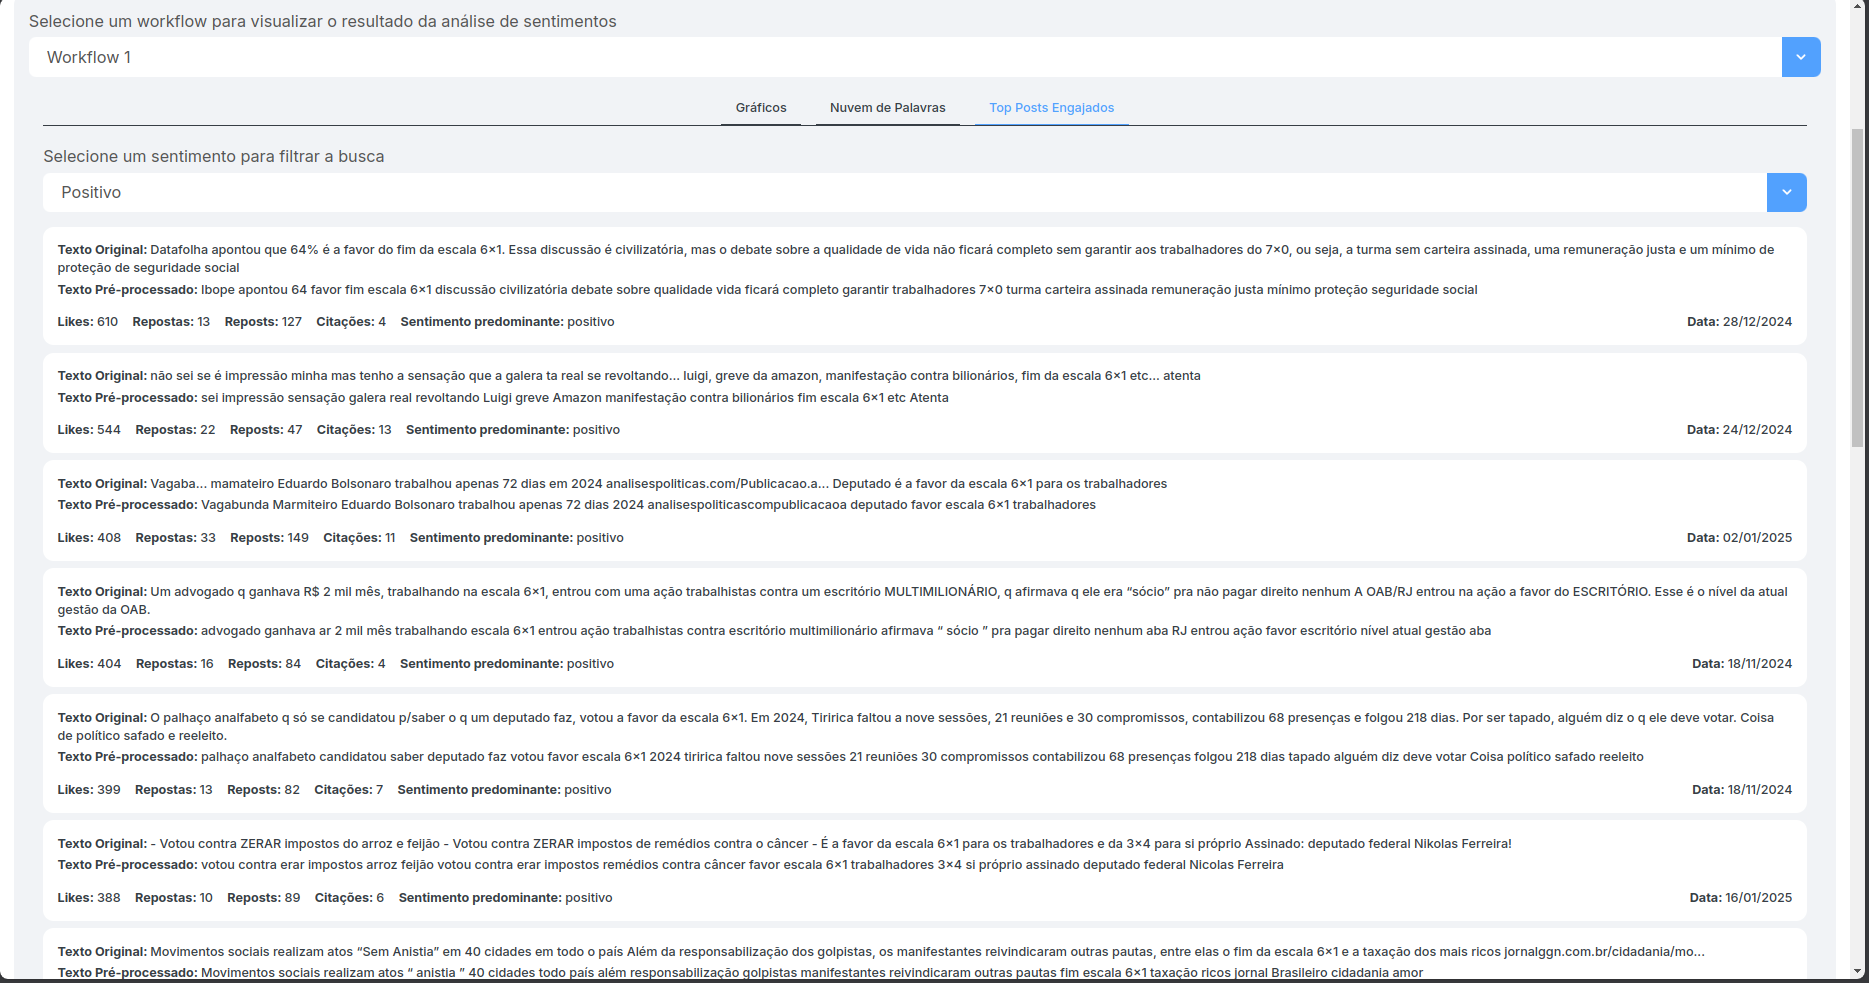
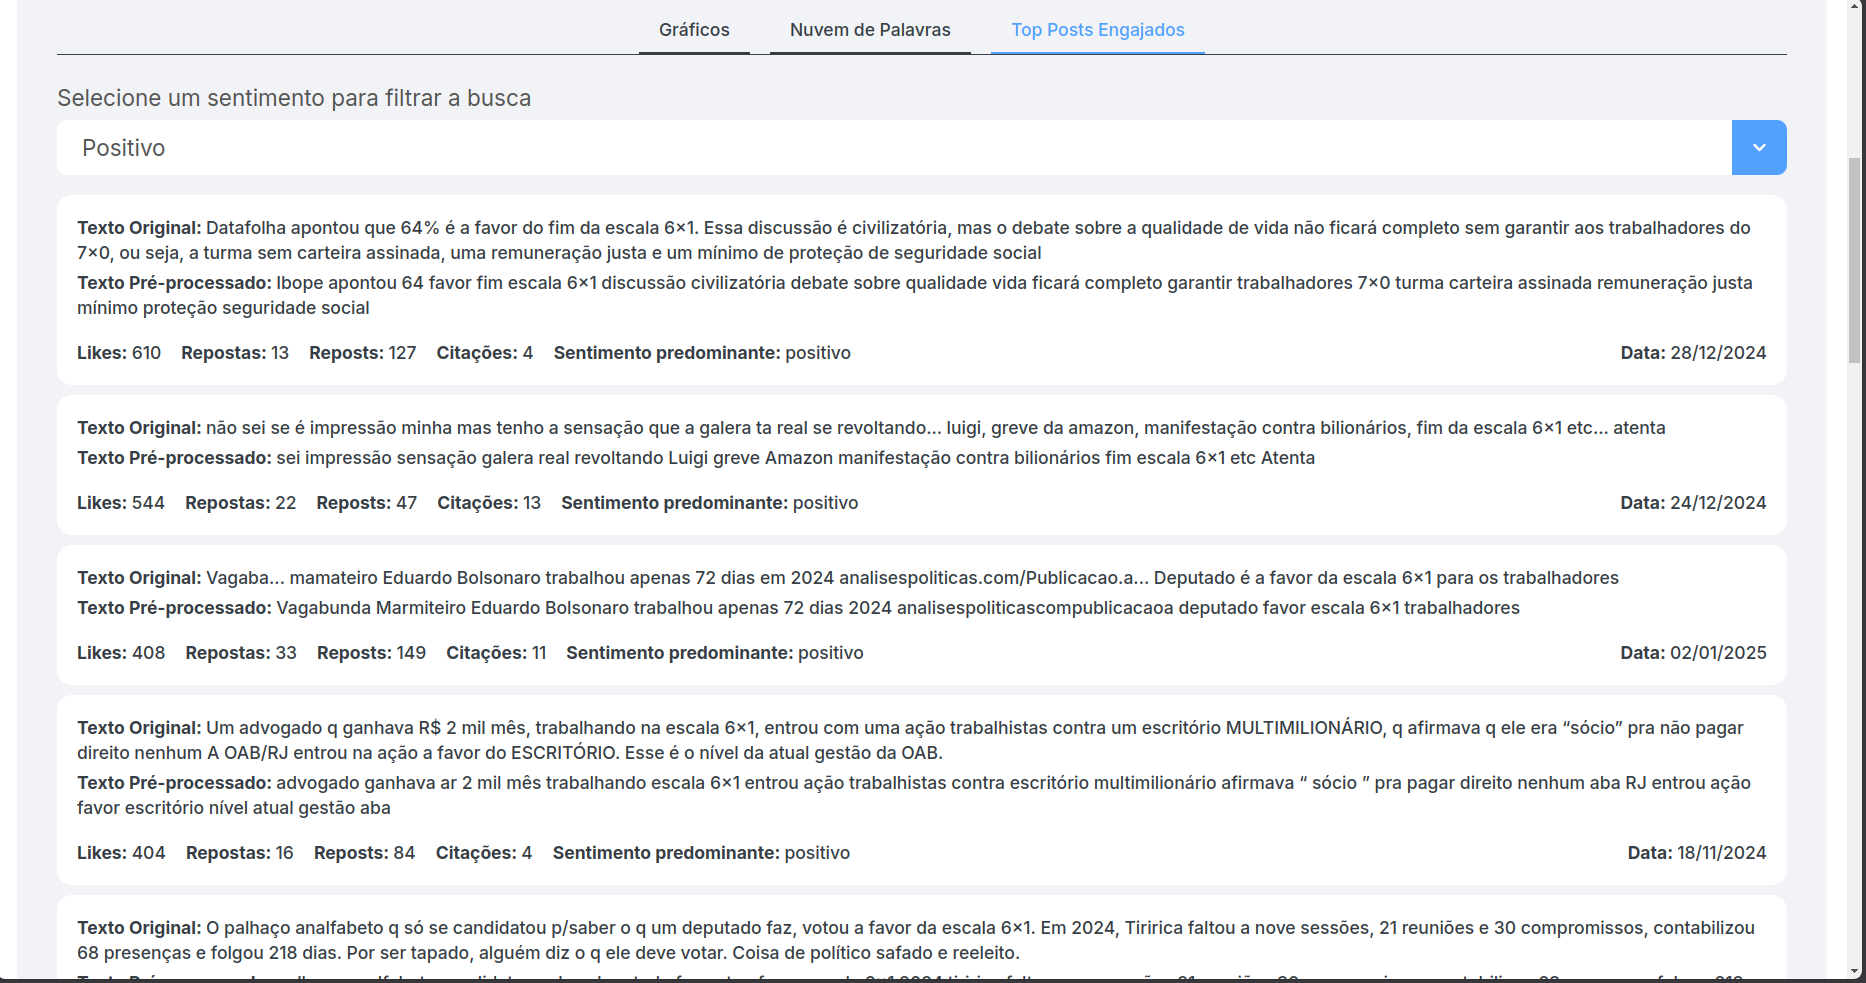
Revisão geral do estudo de caso

diff --git a/article/estudo-de-caso/resultados.md b/article/estudo-de-caso/resultados.md
@@ -10,9 +10,9 @@ O gráfico apresentado na \autoref{grafico_numero_comentarios_por_sentimento} ex
 
 No contexto político, o debate sobre a escala 6x1 ganhou destaque no último ano, impulsionado pela apresentação de uma Proposta de Emenda à Constituição (PEC) que propõe seu fim. A análise dos comentários coletados revela que a maioria das postagens apresenta um tom neutro, sugerindo que grande parte das discussões tem caráter informativo ou analítico. No entanto, entre as postagens que expressam um viés emocional, observa-se uma predominância de sentimentos positivos em relação ao tema. Esse resultado indica que há uma inclinação favorável da opinião pública quanto à possibilidade de alteração ou extinção da escala 6x1, refletindo um possível apoio da população a mudanças na organização da jornada de trabalho.
 
-O Sentilytics também gerou um insight baseado em AI para analisar o resultado do gráfico, interpretando a predominância do sentimento de neutralidade da seguinte forma: "Em suma, a análise de sentimentos revela uma necessidade de explorar mais a fundo as razões subjacentes ao otimismo ou pessimismo contidos nos 512 comentários positivos e nos 105 negativos, bem como entender como estimular uma participação mais ativa do público que se mostrou neutro.".
+O Sentilytics também gerou um *insight* baseado em AI para analisar o resultado do gráfico, interpretando a predominância do sentimento de neutralidade da seguinte forma: "Em suma, a análise de sentimentos revela uma necessidade de explorar mais a fundo as razões subjacentes ao otimismo ou pessimismo contidos nos 512 comentários positivos e nos 105 negativos, bem como entender como estimular uma participação mais ativa do público que se mostrou neutro.".
 
-Esse resultado sugere que, apesar da predominância de comentários neutros, ainda existe a necessidade de entender melhor os sentimentos positivos e negativos expressos pela população. O alto número de postagens neutras pode ser interpretado como uma cautela do público em relação ao tema, especialmente considerando que mudanças trabalhistas costumam gerar incertezas.
+Esse resultado sugere que, apesar da predominância de comentários neutros, ainda existe a necessidade de entender melhor os sentimentos positivos e negativos expressos pela população. O alto número de postagens neutras pode ser interpretado como uma cautela do público em relação ao tema, especialmente considerando que mudanças trabalhistas costumam gerar incertezas. Esses *insights* foram gerados utilizando a API do ChatGPT, na qual os dados do gráfico em questão são enviados para o modelo, que então realiza uma análise.
 
 Embora os resultados apresentados forneçam uma visão geral sobre a distribuição dos sentimentos, é importante considerar as limitações inerentes ao modelo de análise utilizado. A predominância de comentários classificados como neutros pode indicar uma limitação da ferramenta, decorrente do uso de um modelo baseado em léxicos.
 
@@ -22,7 +22,7 @@ Fonte: Autor (2025).
 
 Na \autoref{grafico_media_engajamento}, é apresentado um gráfico de barras que ilustra a média de engajamento por sentimento, considerando as interações dos usuários, como likes, repostagens, respostas e citações. Cada barra no gráfico representa a média calculada para um tipo específico de interação, agrupada de acordo com os sentimentos Positivo, Negativo e Neutro.
 
-A análise desse gráfico permite identificar qual categoria de sentimento gera maior engajamento geral, bem como tendências específicas por tipo de interação. Por exemplo, é possível observar se posts com sentimentos negativos recebem mais repostagens, indicando maior disseminação de conteúdos críticos, ou se postagens neutras geram mais respostas, sugerindo uma maior propensão ao debate e à troca de informações.
+A análise desse gráfico permite identificar qual categoria de sentimento gera maior engajamento geral, bem como tendências específicas por tipo de interação. Por exemplo, é possível observar se posts com sentimentos negativos recebem mais repostagens, indicando maior disseminação de conteúdos críticos.
 
 A análise do gráfico da \autoref{grafico_media_engajamento} revela que os sentimentos negativos geraram o maior engajamento geral, destacando-se especialmente pela média de likes e reposts. Esse padrão sugere que conteúdos críticos ou de tom negativo tendem a atrair mais atenção e interação do público, possivelmente devido à inclinação dos usuários em amplificar mensagens com caráter negativo ou polarizador.
 
@@ -30,7 +30,7 @@ A análise do gráfico da \autoref{grafico_media_engajamento} revela que os sent
 
 Fonte: Autor (2025).
 
-O gráfico apresentado na \autoref{grafico_total_engajamento} exibe o total de interações por sentimento, podemos interpretar esse gráfico observando quais sentimentos geram o maior volume absoluto de engajamento, bem como identificar padrões na distribuição das interações por tipo. ao contrário do gráfico da \autoref{grafico_media_engajamento} que mostra a média, este gráfico analisa o impacto acumulado das interações em cada categoria de sentimento.
+O gráfico apresentado na \autoref{grafico_total_engajamento} exibe o total de interações por sentimento, podemos interpretar esse gráfico observando quais sentimentos geram o maior volume absoluto de engajamento, bem como identificar padrões na distribuição das interações por tipo. Ao contrário do gráfico da \autoref{grafico_media_engajamento} que mostra a média, este gráfico analisa o impacto acumulado das interações em cada categoria de sentimento.
 
 Os resultados apresentados no gráfico mostram que postagens com sentimento neutro tiveram um engajamento significativamente maior em todas as métricas analisadas. Esse padrão indica que conteúdos classificados como neutros possuem um impacto acumulado mais alto, possivelmente devido à maior quantidade de postagens nesta categoria. Por outro lado, ao comparar os sentimentos negativos e positivos podemos notar que o sentimento negativo gera um volume maior de repostagens.
 
@@ -52,13 +52,13 @@ Na \autoref{nuvem_palavras} podemos visualizar a nuvem de palavras gerada na apl
 
 A análise da nuvem de palavras reforça que a discussão sobre o fim da escala 6x1 é central e polarizadora, com "escala" (5.365 ocorrências) e "6x1" (5.020 ocorrências) sendo os termos mais frequentes, seguidos por "fim" (2.229 ocorrências). Isso demonstra o foco principal no impacto e nas mudanças associadas à proposta.
 
-Os termos "contra" (894 ocorrências) e "pra" (982 ocorrências) sugerem uma oposição ou apoio ativo à pauta, indicando que a comunidade está dividida entre grupos que defendem ou rejeitam o fim da escala. Além disso, palavras como "trabalho" (529 ocorrências), "trabalhadores" (268 ocorrências) e "jornada" (134 ocorrências) indicam que a discussão também foca nos impactos diretos sobre a rotina e os direitos dos trabalhadores.
+Os termos "contra" (894 ocorrências) sugere uma oposição ou apoio ativo à pauta, indicando que a comunidade está dividida entre grupos que defendem ou rejeitam o fim da escala. Além disso, palavras como "trabalho" (529 ocorrências), "trabalhadores" (268 ocorrências) e "jornada" (134 ocorrências) indicam que a discussão também foca nos impactos diretos sobre a rotina e os direitos dos trabalhadores.
 
 A presença de palavras como "governo" (257 ocorrências), "direita" (230 ocorrências) e "esquerda" (256 ocorrências) sugere que o debate não é apenas técnico ou econômico, mas também politizado, com diferentes ideologias influenciando as percepções públicas sobre o tema.
 
 Por fim, termos como "luta" (243 ocorrências) e "vida" (253 ocorrências) reforçam o caráter emocional do discurso, destacando que essa proposta é vista como algo que impacta diretamente a qualidade de vida e as condições de trabalho da população. Diante desse cenário, a análise gerada por IA (Inteligência Artificial) na aplicação oferece uma interpretação dos dados, ajudando a contextualizar esses padrões e fornecendo *insights* sobre como o público está reagindo ao debate.
 
-![Top posts Engajados](imagens/sentilytics/estudo-caso/top_posts_engajados.png){#top_posts_engajados escala=0.2}
+![Top posts Engajados](imagens/sentilytics/estudo-caso/top_posts_engajados.png){#top_posts_engajados escala=0.3}
 
 Fonte: Autor (2025).
 
@@ -72,12 +72,14 @@ A funcionalidade de top posts engajados, com a visualização do texto original 
 
 Embora o presente estudo tenha alcançado seus objetivos principais, é importante reconhecer algumas limitações que podem ter impactado os resultados e a abrangência da análise. Essas limitações estão relacionadas tanto à aplicação Sentilytics quanto ao escopo do estudo de caso, e incluem:
 
-1. Integração limitada à rede social Bluesky: Atualmente, o Sentilytics está integrado apenas à rede social Bluesky, uma plataforma que ainda não possui grande relevância no Brasil e é pouco utilizada em comparação com outras redes sociais, como X (Antigo Twitter) e Facebook. Essa limitação reduz a representatividade da análise, já que os dados coletados refletem um público menor e potencialmente menos diversificado.
+1. **Integração limitada à rede social Bluesky**: Atualmente, o Sentilytics está integrado apenas à rede social Bluesky, uma plataforma que ainda não possui grande relevância no Brasil e é pouco utilizada em comparação com outras redes sociais, como X (Antigo Twitter) e Facebook. Essa limitação reduz a representatividade da análise, já que os dados coletados refletem um público menor e potencialmente menos diversificado.
 
 1. Opções limitadas de pré-processamento e análise de sentimentos: O Sentilytics oferece atualmente um número reduzido de tarefas de pré-processamento e utiliza apenas o VADER como modelo de análise de sentimentos. Embora o formato atual da aplicação permita a adição de outras funções sem a necessidade de alterações significativas, essas limitações podem impactar a qualidade dos resultados, especialmente para textos em português, onde o VADER tem dificuldades em captar nuances emocionais, como ironia e sarcasmo.
 
 1. Tamanho da amostra de dados: O estudo considerou uma amostra de 4.880 postagens coletadas no Bluesky. Embora seja suficiente para uma análise inicial, um número maior de postagens poderia fornecer uma visão mais abrangente e robusta sobre os padrões de engajamento e os sentimentos expressos pela audiência.
 
 1. Viés na análise de sentimentos: O modelo de análise de sentimentos utilizado, o VADER, apresenta limitações conhecidas, como dificuldade para interpretar ironias, sarcasmos e textos altamente subjetivos, o que é comum em postagens de redes sociais. Isso pode ter levado a uma classificação imprecisa em alguns casos, especialmente nas postagens que dependem de contextos mais complexos para serem interpretadas corretamente.
+
+1. Dados reais não rotulado para comparação: Os dados são reais e obtidos diretamente da rede social, portanto, não foram rotulados por especialistas, a fim de analisar a acurácia e precisão dos resultados.
 
 Essas limitações não comprometem os objetivos gerais do estudo, mas indicam possibilidades de melhoria para pesquisas futuras. A ampliação da integração do Sentilytics para outras redes sociais, a implementação de modelos mais robustos de análise de sentimentos, como redes neurais treinadas especificamente para o português, e o aumento do volume de dados analisados podem contribuir para resultados ainda mais precisos e abrangentes.

diff --git a/article/estudo-de-caso/processamento.md b/article/estudo-de-caso/processamento.md
@@ -1,17 +1,23 @@
 ### Pré-processamento dos Dados
 
-Após a coleta, os textos das postagens passaram por uma sequência de tarefas de pré-processamento para garantir maior qualidade na análise. O pipeline de processamento incluiu as seguintes etapas:
+Após a coleta, os textos das postagens passaram por uma sequência de tarefas de pré-processamento para garantir maior qualidade na análise. Para isso um workflow foi criado com as tarefas que serão usadas para realizar o pré-processamento, que podemos visualizar na \autoref{pipeline_processamento}.
 
-1. Lowercase: Transformação de todo o texto para minúsculas, garantindo uniformidade;
-1. Remove URLs: Remove URLs do texto;
-1. Enelvo Normaliser: Normalização do texto para corrigir erros ortográficos e abreviações comuns;
-1. Word Tokenizer: Segmentação do texto em palavras individuais (tokens);
-1. Stopwords Remover: Remoção de palavras irrelevantes que não contribuem para a análise do sentimento;
-1. Join Tokens: Os tokens são unidos novamente formando uma frase novamente com os tokens separados por um espaço em branco.
+![Workflow de pré-processamento](imagens/sentilytics/estudo-caso/workflow.png){#pipeline_processamento escala=0.35}
+
+Fonte: Autor (2025).
+
+A \autoref{pipeline_processamento} mostra um conjunto de tarefas organizadas em ordem, cada postagem vai passar por essas tarefas em sequência, as tarefas são:
+
+1. Minúsculas: Transformação de todo o texto para minúsculas, garantindo uniformidade;
+1. Removedor URLs Regex: Remove URLs do texto;
+1. Normalizador Enelvo: Normalização do texto para corrigir erros ortográficos e abreviações comuns;
+1. Tokenização por Palavra | NLTK: Segmentação do texto em palavras individuais (tokens);
+1. Removedor Stopwords: Remoção de palavras irrelevantes que não contribuem para a análise do sentimento;
+1. Tokens para Texto: Os tokens são unidos novamente formando uma frase novamente com os tokens separados por um espaço em branco.
 
 ### Análise de Sentimentos
 
-Após o pré-processamento, as postagens foram submetidas ao modelo de análise de sentimentos do Sentilytics, que utiliza o VADER (Valence Aware Dictionary and sEntiment Reasoner), uma ferramenta da biblioteca NLTK (Natural Language Toolkit). O VADER é um modelo baseado em regras e léxicos, projetado especificamente para a análise de sentimentos em textos informais.
+Após o pré-processamento, as postagens foram submetidas ao modelo de análise de sentimentos do Sentilytics, que utiliza o VADER[^VADER] (Valence Aware Dictionary and sEntiment Reasoner), uma ferramenta da biblioteca NLTK[^NLTK] (Natural Language Toolkit). O VADER é um modelo baseado em regras e léxicos, projetado especificamente para a análise de sentimentos em textos informais.
 
 Cada postagem recebeu uma pontuação de polaridade, categorizada em:
 
@@ -20,7 +26,7 @@ Cada postagem recebeu uma pontuação de polaridade, categorizada em:
 - Negativo: O quanto a postagem é negativa;
 - Composta: A pontuação composta consiste em um valor que representa a polaridade geral do texto, onde esse valor varia entre entre -1 (muito negativo) e +1 (muito positivo).
 
-A pontuação composta é calculada a partir da soma das valências das palavras presentes no texto. Essas valências são determinadas por um léxico de sentimentos, que associa palavras a escores de polaridade positiva e negativa. Além disso, a análise considera uma série de heurísticas que ajustam o impacto dessas palavras com base no contexto em que aparecem, como a presença de negações ou intensificadores.
+A pontuação composta é calculada a partir da soma das valências das palavras presentes no texto. Essas valências são determinadas por um léxico de sentimentos, que associa palavras ao score de polaridade positiva e negativa. Além disso, a análise considera uma série de heurísticas que ajustam o impacto dessas palavras com base no contexto em que aparecem, como a presença de negações ou intensificadores.
 
 Para garantir que os valores fiquem dentro do intervalo de -1 a +1, a soma das valências é normalizada usando a seguinte fórmula:
 
@@ -29,10 +35,13 @@ Para garantir que os valores fiquem dentro do intervalo de -1 a +1, a soma das v
 \end{equation}
 
 - sum_s é a soma das valências das palavras no texto;
-- 𝛼 é um fator de suavização que evita que textos muito longos tenham scores excessivamente altos ou baixos (o valor padrão no VADER é 15).
+- $\alpha$ é um fator de suavização que evita que textos muito longos tenham scores excessivamente altos ou baixos (o valor padrão no VADER é 15).
 
 Com base nessa normalização, o sentilytics consegue interpretar o sentimento predominante na postagem da seguinte forma:
 
 - Se o score composto for maior ou igual a 0.05: O sentimento da postagem é considerado positivo;
 - Se for menor ou igual a -0.05: O sentimento é negativo;
 - Se estiver entre -0.05 e 0.05: O sentimento é neutro.
+
+[^NLTK]: O site do NLTK está disponível no link: <https://www.nltk.org/>
+[^VADER]: A documentação do VADER está disponível no link: <https://www.nltk.org/_modules/nltk/sentiment/vader.html>

diff --git a/article/estudo-de-caso/coleta-dados.md b/article/estudo-de-caso/coleta-dados.md
@@ -1,5 +1,11 @@
 ### Coleta de Dados
 
-A coleta de dados foi realizada por meio da integração da ferramenta Sentilytics com o Bluesky. Para a busca, foi utilizada a query "Escala 6x1", sem a aplicação de filtros de intervalo de datas. As postagens foram ordenadas de acordo com sua popularidade, priorizando as mais relevantes dentro da plataforma.
+A coleta de dados foi realizada por meio da integração da ferramenta Sentilytics com o Bluesky. Com a pesquisa já criada, será necessário configurar os parâmetros que serão utilizados para a busca, podemos visualizar essa tela na \autoref{configuracao_pesquisa}.
 
-No total, foram coletadas 4880 postagens. Esse volume de dados permite uma análise representativa das percepções sobre a escala 6x1, abrangendo diferentes perspectivas e experiências compartilhadas pelos usuários.
+![Configuração da pesquisa](imagens/sentilytics/estudo-caso/dados_pesquisa.png){#configuracao_pesquisa escala=0.35}
+
+Fonte: Autor (2025).
+
+Como podemos visualizar na \autoref{configuracao_pesquisa}, os parâmetros de busca utilizados foram a query "Escala 6x1", sem a aplicação de filtros de intervalo de datas. As postagens foram ordenadas de acordo com sua popularidade, priorizando as mais relevantes dentro da plataforma.
+
+A pesquisa foi executada no dia 7 de fevereiro de 2025, onde no total foram coletadas 4880 postagens. Esse volume de dados permite uma análise representativa das percepções sobre a escala 6x1, abrangendo diferentes perspectivas e experiências compartilhadas pelos usuários.

diff --git a/article/estudo-de-caso/introducao.md b/article/estudo-de-caso/introducao.md
@@ -2,4 +2,4 @@ A jornada de trabalho é um dos principais temas debatidos no contexto organizac
 
 A rotina dessa escala gera debates sobre sua eficácia e os impactos na saúde física e mental dos trabalhadores, além da influência na satisfação e no desempenho profissional. Com a crescente digitalização das relações trabalhistas e a disseminação de opiniões nas redes sociais, é possível analisar como os trabalhadores percebem essa jornada de trabalho por meio de ferramentas de análise de sentimentos.
 
-O presente estudo tem como objetivo aplicar a ferramenta Sentilytics para realizar uma análise de sentimentos sobre a escala 6x1, utilizando dados extraídos da rede social Bluesky, que já possui integração com a ferramenta. O foco será examinar a polaridade dos sentimentos (positivo, negativo ou neutro) relacionados às experiências e percepções da população sobre esse regime de trabalho.
+O presente estudo tem como objetivo aplicar a ferramenta Sentilytics para realizar uma análise de sentimentos sobre a escala 6x1, utilizando dados extraídos da rede social Bluesky. O foco será examinar a polaridade dos sentimentos (positivo, negativo ou neutro) relacionados às experiências e percepções da população sobre esse regime de trabalho.

diff --git a/trabalho-academico.md b/trabalho-academico.md
@@ -1,20 +1,24 @@
 <!-- Capítulo 1: Introdução -->
 # Introdução
+
 @import('article/introducao.md')
 
 <!-- Capítulo 2: Fundamentação Teórica -->
 # Fundamentação Teórica
+
 @import('article/fundamentacao-teorica/introducao.md')
 @import('article/fundamentacao-teorica/fundamentacao-teorica.md')
 
 <!-- Capítulo 3: Sentilytics -->
 # Sentilytics
+
 @import('article/sentilytics/introducao.md')
 @import('article/sentilytics/tecnologias-ferramentas.md')
 @import('article/sentilytics/modelagem-solucao.md')
 
 <!-- Capítulo 4: Sentilytics -->
-# Análise de sentimento da opinião pública sobre a escala de trabalho 6x1 com Sentilytics: um estudo de caso
+# Escala de trabalho 6x1: um estudo de caso com o Sentilytics
+
 @import('article/estudo-de-caso/introducao.md')
 @import('article/estudo-de-caso/metodologia.md')
 @import('article/estudo-de-caso/coleta-dados.md')
@@ -23,4 +27,5 @@
 
 <!-- Capítulo 5: Sentilytics -->
 # Considerações Finais
+
 @import('article/conclusao.md')

diff --git a/README.md b/README.md
@@ -11,6 +11,8 @@ Este repositório contém meu Trabalho de Conclusão de Curso (TCC) desenvolvido
 ![Data](https://img.shields.io/badge/Publica%C3%A7%C3%A3o-31%2C%20Fev%20de%202025-green)
 ![Linguagem](https://img.shields.io/badge/Linguagem-Portugu%C3%AAs%20brasileiro-green)
 
+[O documento e o slide estão disponíveis aqui](https://apolos7.github.io/sentilytics-tcc/)
+
 </div>
 
 ## Resumo
